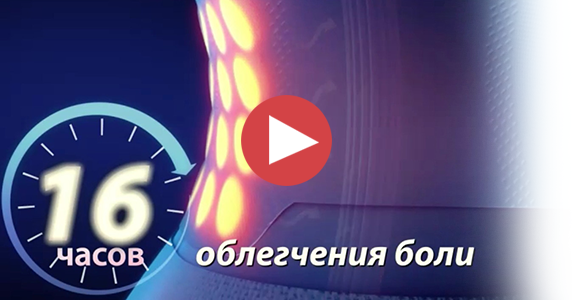
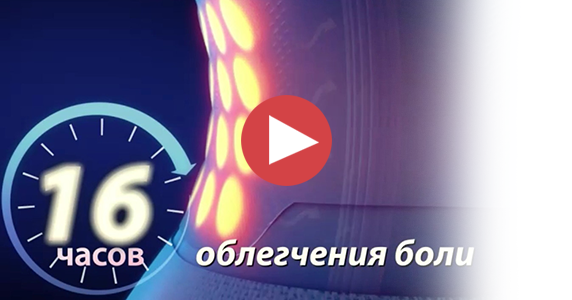
A24

Changed region(s): [[0.6836, 0.0, 0.951, 1.0]]

diff --git a/thermacare/css/style.css b/thermacare/css/style.css
@@ -204,7 +204,7 @@ body {
     display: block;
     margin: 0 0 5px 0;
 }
-.sub-nav li a {
+.sub-nav li a.more-btn {
     color:#e41837;
     font-size: 12px;
     line-height: 12px;
@@ -320,7 +320,7 @@ body {
 
 }
 .ads .col:nth-child(2) {
-    margin:0 29px;
+    margin:0 29px 20px 29px;
 }
 .ads span {
     width:128px;
@@ -523,7 +523,7 @@ body {
     z-index: 1;
     font-size: 12px;
     color: #212121;
-    text-align: left;
+    text-align: justify;
 
     border-radius:10px;
     -webkit-border-radius:10px;
@@ -645,7 +645,7 @@ body {
     background: url("../images/stepBg-1.png") no-repeat left top;
 }
 .helper .info-2 {
-    background: url("../images/stepBg.png") no-repeat left top;
+    background: url("../images/stepBg-2.png") no-repeat left top;
 }
 .helper .info-3 {
     position: relative;;
@@ -654,8 +654,8 @@ body {
 .helper .play { position:absolute; display: block; width: 92px; height: 92px; left: 240px; top: 95px; }
 .helper .step-pic {
     position: absolute;
-    top: 155px;
-    left: 310px;
+    top: 226px;
+    left: 518px;
 }
 .helper .info-box {
     position: absolute;
@@ -692,7 +692,9 @@ body {
     color:#ffffff;
     text-transform: uppercase;
     text-decoration: none;
-    float:right;
+    left: 215px;
+    top: 210px;
+    position: absolute;
 
     border-radius:10px;
     -webkit-border-radius:10px;

diff --git a/thermacare/templates/html.tpl.php b/thermacare/templates/html.tpl.php
@@ -5,7 +5,7 @@
     $themepath = '/'.$directory.'/';
 ?>
 
-<?php $ver='?a23'; ?>
+<?php $ver='?a24'; ?>
 
 <?php print $head; ?>
 <link href="<?=$themepath?>css/style.css<?=$ver?>" rel="stylesheet" type="text/css"/>
@@ -14,7 +14,7 @@
     .content > h2 { display: none;}
 </style>
 
- <!--A23-->
+ <!--A24-->
 <script type="text/javascript" src="<?=$themepath?>js/jquery-1.11.2.min.js<?=$ver?>"></script>
 <!--
 <script src="http://code.jquery.com/ui/1.10.3/jquery-ui.js"></script>

diff --git a/thermacare/templates/page.tpl.php b/thermacare/templates/page.tpl.php
@@ -150,7 +150,7 @@
                         <a href="'.$sub_url.'"><span>'.$sub_title.'</span></a>
                         '.$sub_desc.'
                     </p>
-                    <a href="'.$sub_url.'">подробнее</a>
+                    <a class="more-btn" href="'.$sub_url.'">подробнее</a>
                     <div class="clear"></div>
                 </li>
                 ';
